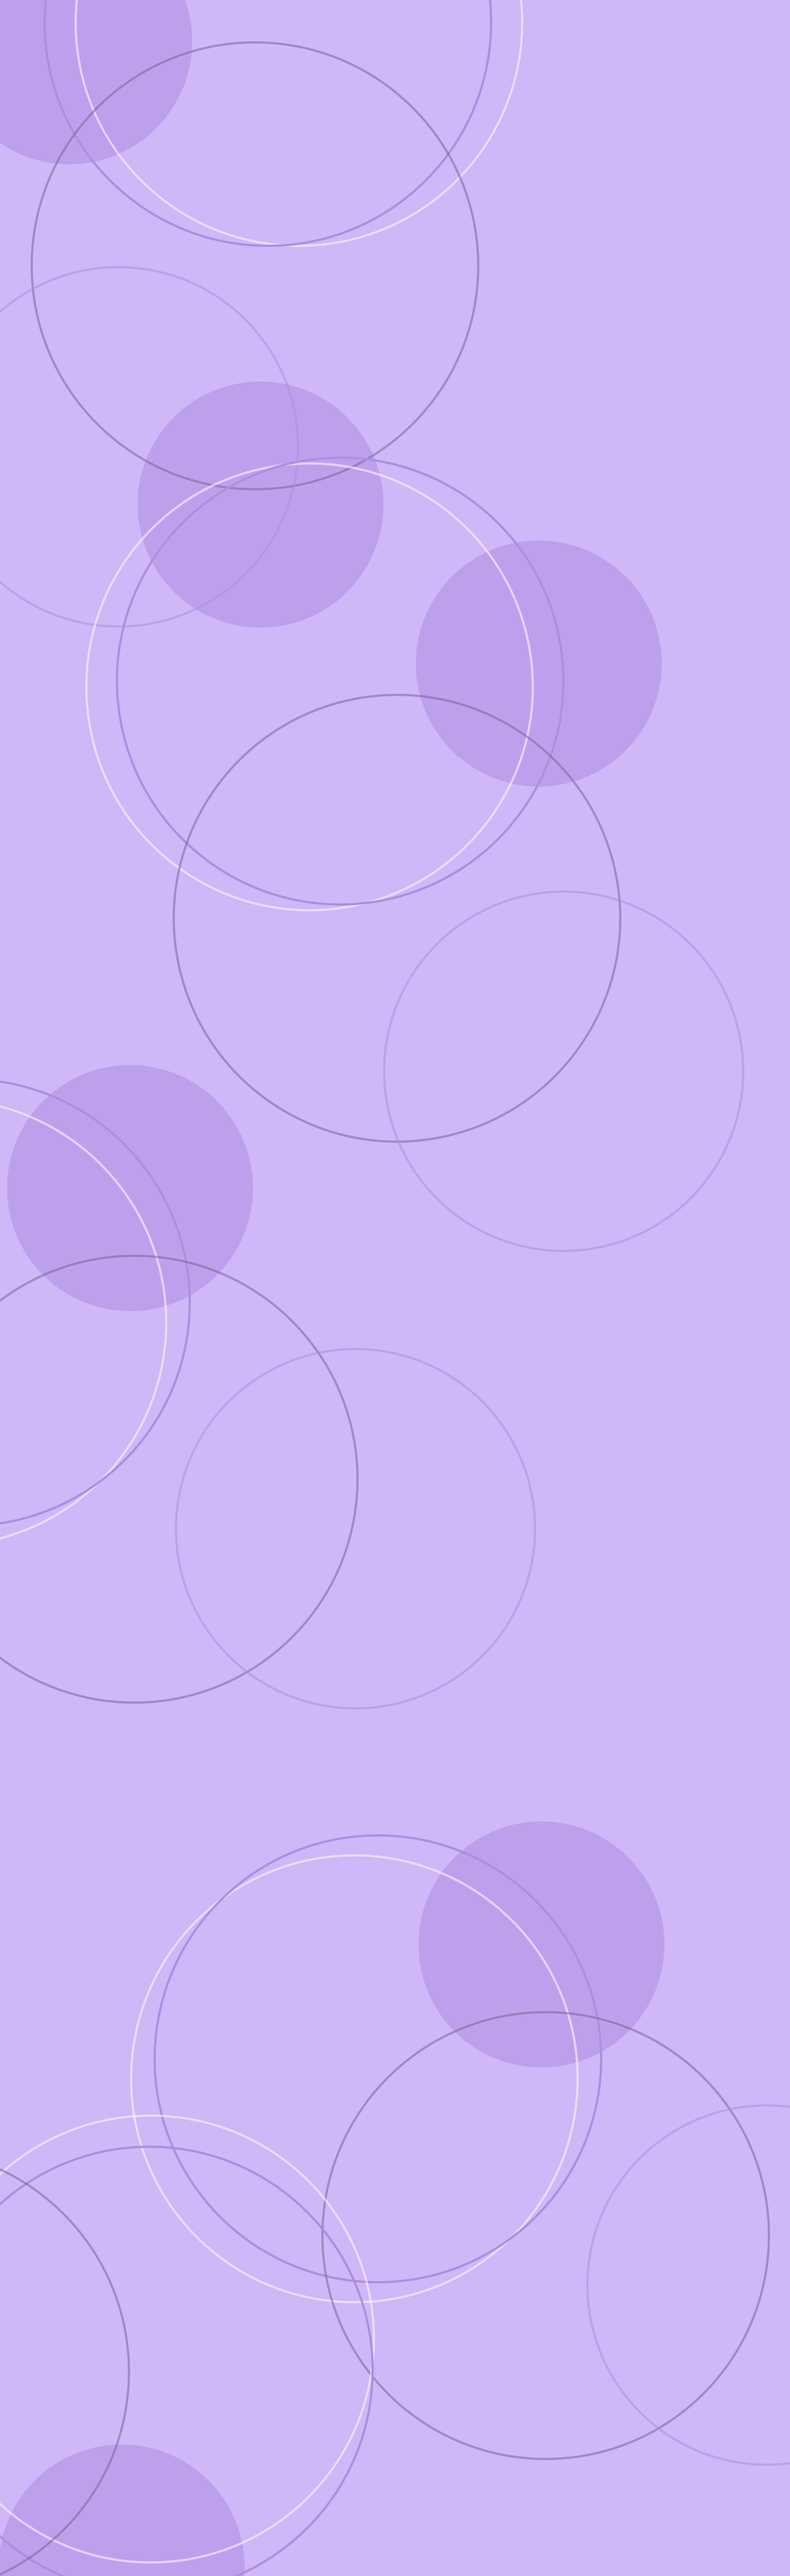
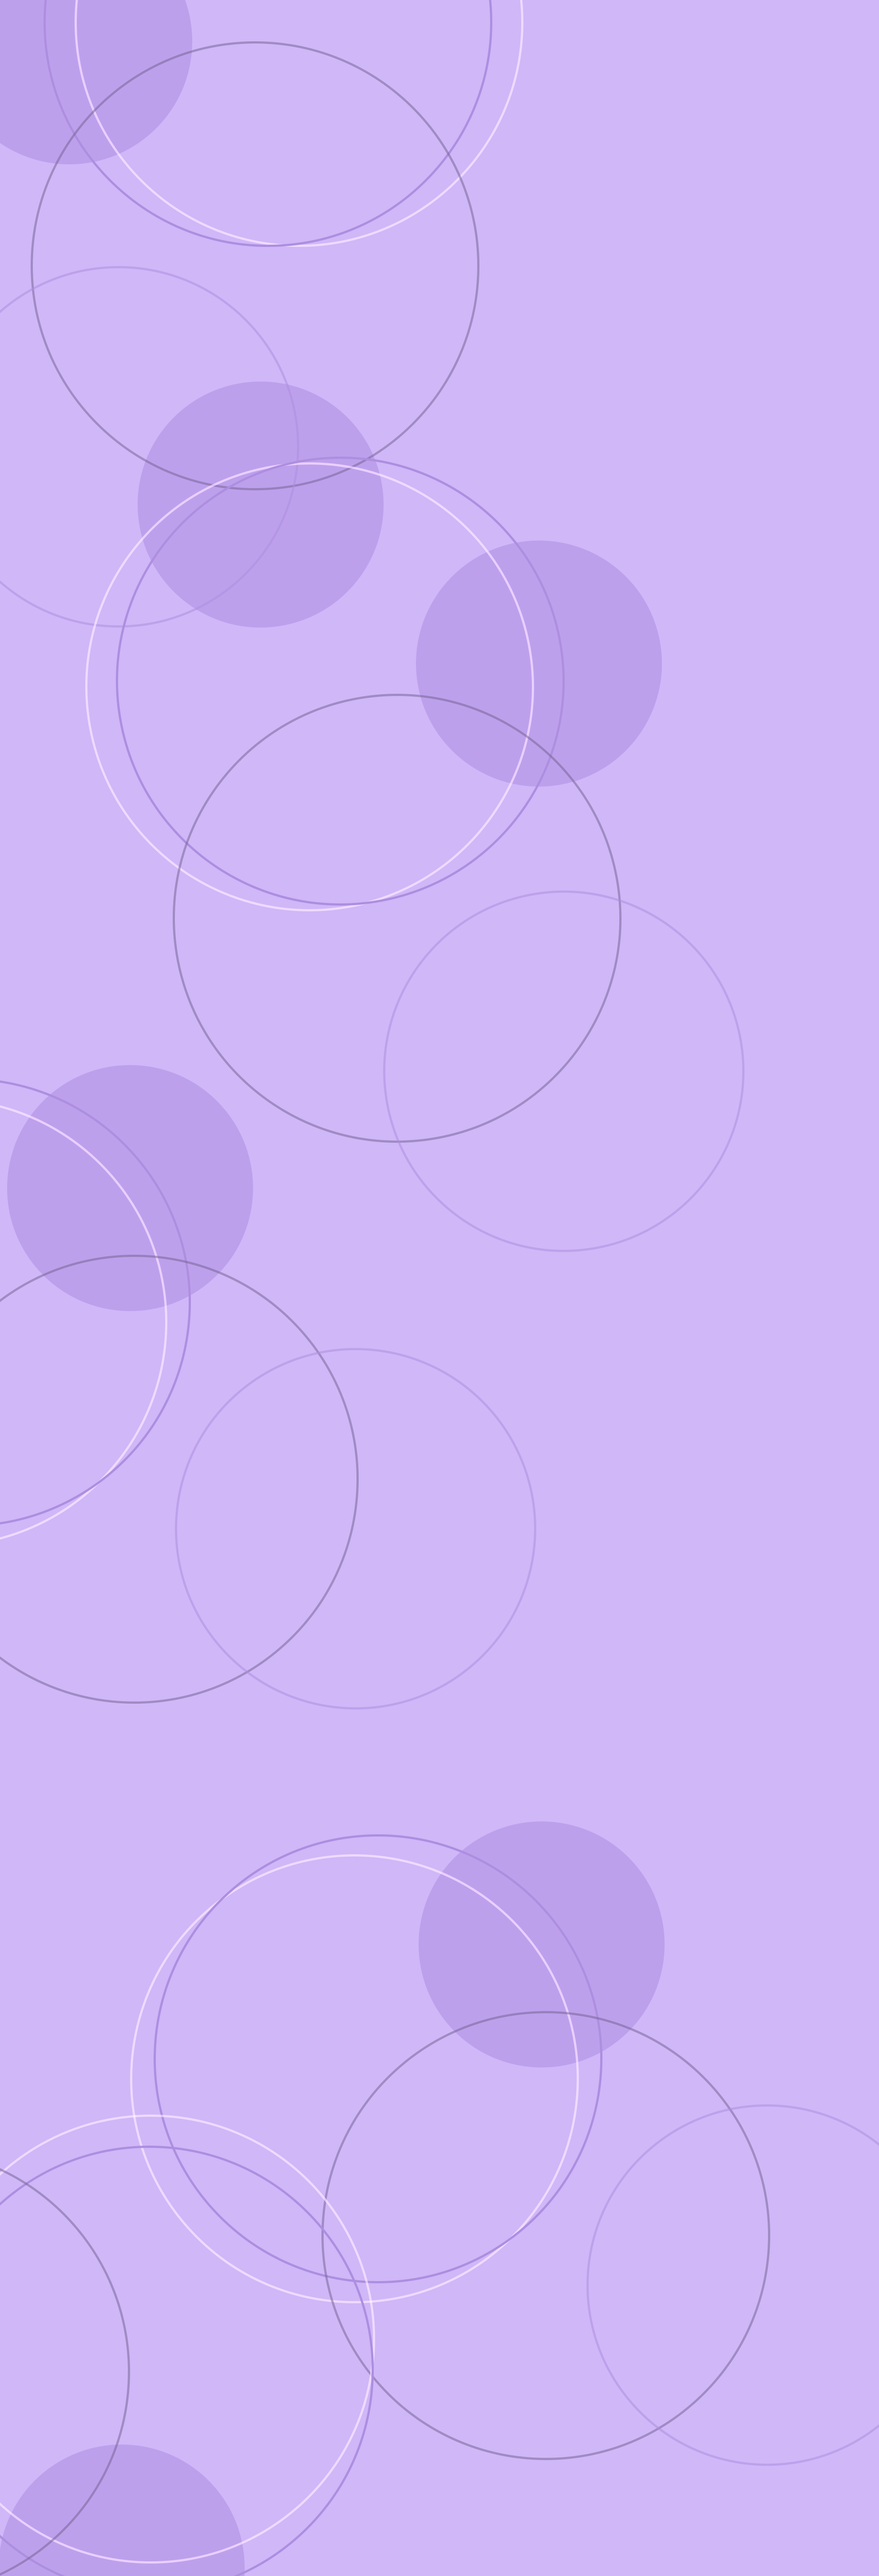
wd

diff --git a/중간.css b/중간.css
@@ -116,7 +116,7 @@ main {
     position: relative;
     width: 100%;
     height: 4500px;
-    background-image: url("제작배3.png");
+    background-image: url("제작배.png");
     background-size: contain; /* contain:이미지 전체가 보이도록, cover: 이미지가 박스에 가득 차게 */
     background-position-y: center;
 }
